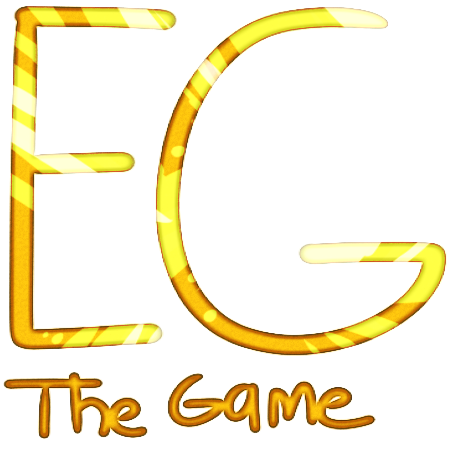
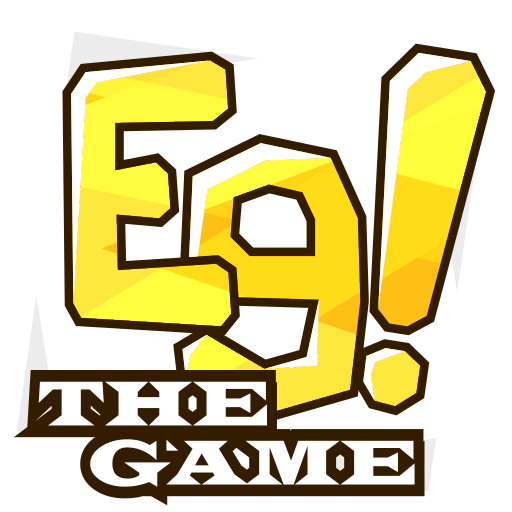
Update eg.png (#4)
* Update eg.png

* Update eg's name

diff --git a/src/users.js b/src/users.js
@@ -35,7 +35,7 @@ export default [
     plays: 37317030, // 2020-03-11
   },
   {
-    name: "eg - testing",
+    name: "Eg!",
     url: "https://www.roblox.com/games/2747834912",
     image: eg,
     plays: 23326904, // 2020-03-11
